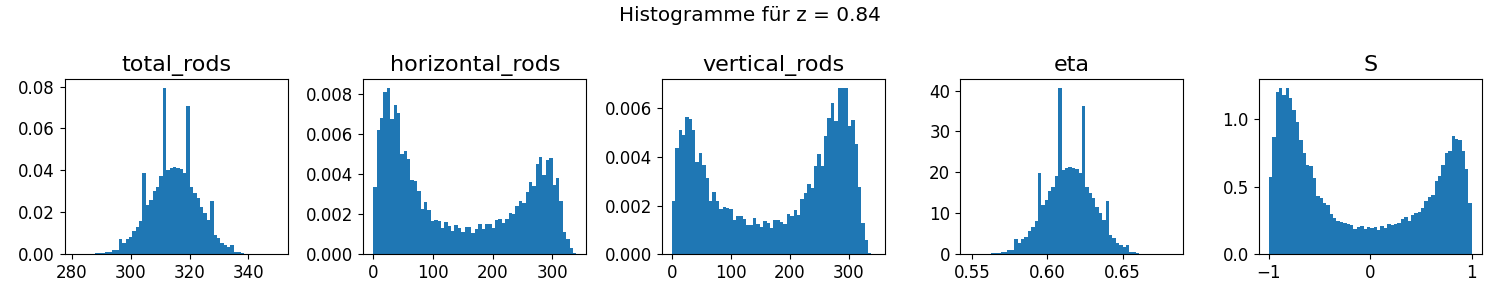
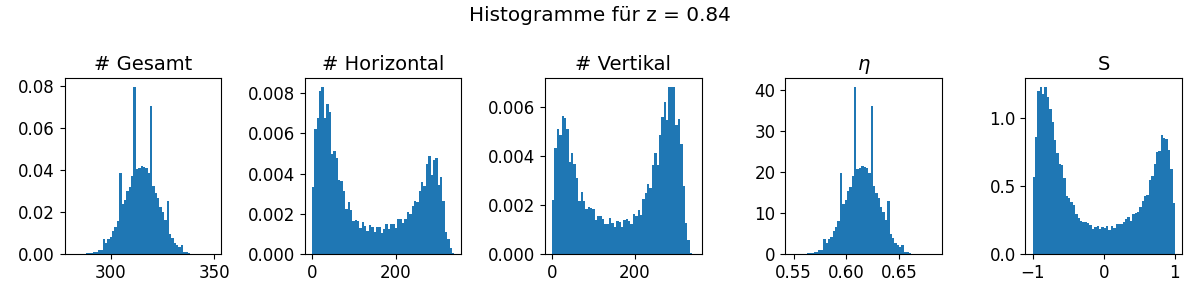
updated separate histograms

diff --git a/06_GK_Monte_Carlo/output/plot_histograms.py b/06_GK_Monte_Carlo/output/plot_histograms.py
@@ -10,16 +10,26 @@ files_and_titles = [
     ('06_GK_Monte_Carlo/output/observables_2.csv', 'z = 1.1')
 ]
 
+rename_dict = {
+    'total_rods': '# Gesamt',
+    'horizontal_rods': '# Horizontal',
+    'vertical_rods': '# Vertikal',
+    'eta': '$\eta$',
+    'S': 'S'
+}
+
 for file, title in files_and_titles:
     df = pd.read_csv(file, comment='#')
-    # Create subplots
-    fig, axes = plt.subplots(1, 5, figsize=(15, 3))
+
+
+    fig, axes = plt.subplots(1, 5, figsize=(12, 3))
     columns = [col for col in df.columns if col != 'step']
+
+
     for ax, column in zip(axes, columns):
-        # Plot the data
         ax.hist(df[column], bins=60, density=True)
-        ax.set_title(column, fontsize=16)
-    fig.suptitle(f'Histogramme für {title}')#, fontsize=20)
+        ax.set_title(rename_dict[column], fontsize=14)
+    fig.suptitle(f'Histogramme für {title}')
     plt.tight_layout()
     plt.savefig(f'06_GK_Monte_Carlo/output/histograms_{title}.png')
     plt.close()
